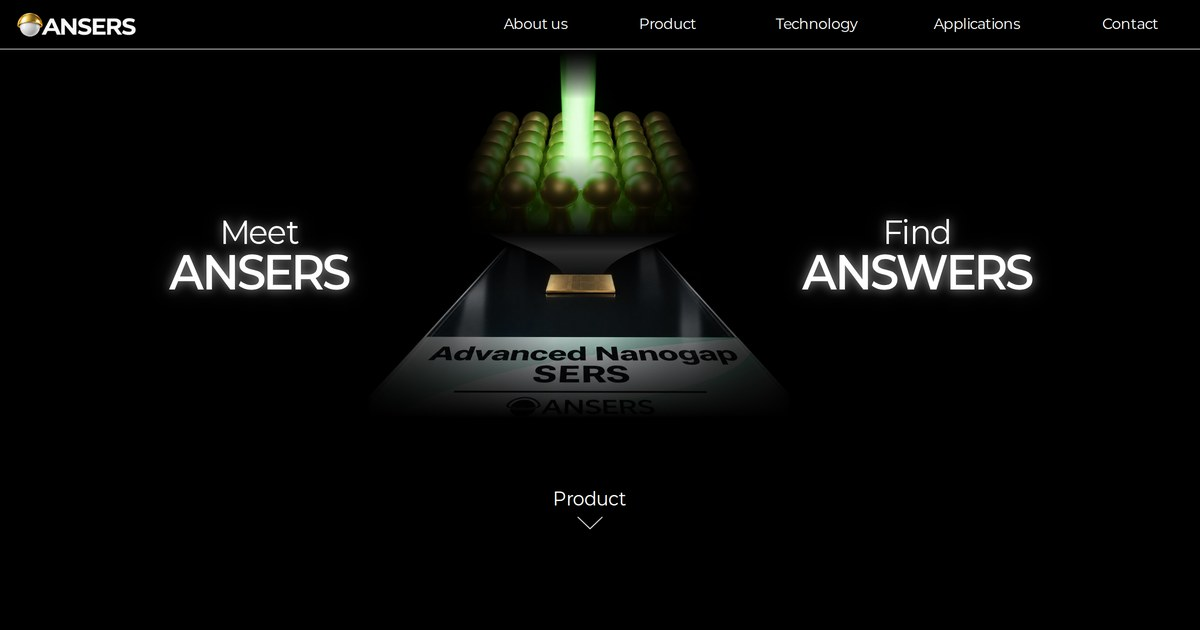
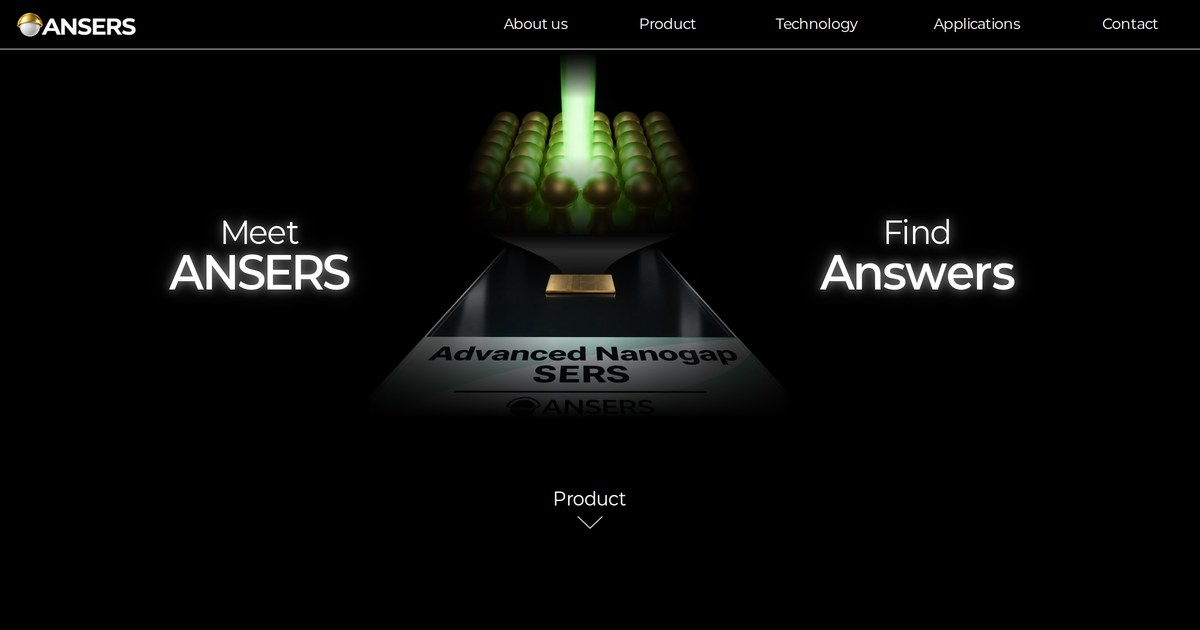
Add files via upload

Changed region(s): [[0.6475, 0.3921, 0.8633, 0.4825]]

diff --git a/m/about.html b/m/about.html
@@ -7,11 +7,11 @@
 <script>(function(){if(!/^https?:$/.test(location.protocol))return;var p=location.pathname,n=p.replace(/index\.html$/,"").replace(/\.html$/,"");if(n!==p)history.replaceState(history.state,"",n+location.search+location.hash)})()</script>
 <meta name="theme-color" content="#000000">
 <title>About us | ANSERS</title>
-<meta name="description" content="ANSERS - Advanced Nanogap SERS. Meet ANSERS, Find ANSWERS.">
+<meta name="description" content="ANSERS - Advanced Nanogap SERS. Meet ANSERS, Find Answers.">
 <meta property="og:type" content="website">
 <meta property="og:site_name" content="ANSERS">
 <meta property="og:title" content="About us | ANSERS">
-<meta property="og:description" content="ANSERS - Advanced Nanogap SERS. Meet ANSERS, Find ANSWERS.">
+<meta property="og:description" content="ANSERS - Advanced Nanogap SERS. Meet ANSERS, Find Answers.">
 <meta property="og:url" content="https://ansers.kr/about">
 <meta property="og:image" content="https://ansers.kr/assets/img/og-image.jpg">
 <meta property="og:image:width" content="1200">
@@ -58,7 +58,7 @@
   <svg data-k="14-6" class="rv el" viewBox="-6.00 -6.00 362.00 197.78" preserveAspectRatio="none" style="left:3.590cqw;top:99.138cqw;width:92.821cqw;height:50.714cqw;overflow:visible;"><rect width="350.00" height="185.78" fill="rgb(255,255,255)" stroke="none"/></svg>
   <img data-k="14-7" class="rv zoom el pic" src="assets/img/logo-color-v3.png" alt="logo-color-v3.png" style="left:27.256cqw;top:100.676cqw;width:43.329cqw;height:11.617cqw;">
   <div data-k="14-8" class="rv el tx" style="left:6.304cqw;top:116.285cqw;width:87.387cqw;height:29.746cqw;padding:0.000cqw 0.000cqw 0.000cqw 0.000cqw;display:flex;flex-direction:column;justify-content:flex-start;white-space:pre-wrap;"><p style="text-align:center;line-height:4.154cqw;position:relative;top:-0.108cqw;"><span style="font-family:var(--f-pt);font-weight:600;font-size:3.846cqw;color:rgb(0,0,0);letter-spacing:-0.077cqw;">KAIST 생산 및 계측 연구실에서 창업한 </span></p><p style="text-align:center;line-height:4.154cqw;position:relative;top:-0.108cqw;"><span style="font-family:var(--f-pt);font-weight:600;font-size:3.846cqw;color:rgb(0,0,0);letter-spacing:-0.077cqw;">ANSERS는</span><span style="font-family:var(--f-pt);font-weight:600;font-size:3.846cqw;color:rgb(0,0,0);letter-spacing:-0.077cqw;"> 비전통적 반도체 공정을 통해 </span></p><p style="text-align:center;line-height:4.154cqw;position:relative;top:-0.108cqw;"><span style="font-family:var(--f-pt);font-weight:600;font-size:3.846cqw;color:rgb(0,0,0);letter-spacing:-0.077cqw;">초고감도, 고 재현성 </span><span style="font-family:var(--f-pt);font-weight:600;font-size:3.846cqw;color:rgb(0,0,0);letter-spacing:-0.077cqw;">SERS기판을</span><span style="font-family:var(--f-pt);font-weight:600;font-size:3.846cqw;color:rgb(0,0,0);letter-spacing:-0.077cqw;"> 제조합니다.</span></p><p style="text-align:center;line-height:4.154cqw;position:relative;top:-0.108cqw;">&nbsp;</p><p style="text-align:center;line-height:4.154cqw;position:relative;top:-0.108cqw;"><span style="font-family:var(--f-pt);font-weight:600;font-size:3.846cqw;color:rgb(0,0,0);letter-spacing:-0.077cqw;">칩과 연동되는 </span><span style="font-family:var(--f-pt);font-weight:600;font-size:3.846cqw;color:rgb(0,0,0);letter-spacing:-0.077cqw;">Raman</span><span style="font-family:var(--f-pt);font-weight:600;font-size:3.846cqw;color:rgb(0,0,0);letter-spacing:-0.077cqw;"> </span><span style="font-family:var(--f-pt);font-weight:600;font-size:3.846cqw;color:rgb(0,0,0);letter-spacing:-0.077cqw;">spectroscopy로</span><span style="font-family:var(--f-pt);font-weight:600;font-size:3.846cqw;color:rgb(0,0,0);letter-spacing:-0.077cqw;"> </span></p><p style="text-align:center;line-height:4.154cqw;position:relative;top:-0.108cqw;"><span style="font-family:var(--f-pt);font-weight:600;font-size:3.846cqw;color:rgb(0,0,0);letter-spacing:-0.077cqw;">Total</span><span style="font-family:var(--f-pt);font-weight:600;font-size:3.846cqw;color:rgb(0,0,0);letter-spacing:-0.077cqw;"> </span><span style="font-family:var(--f-pt);font-weight:600;font-size:3.846cqw;color:rgb(0,0,0);letter-spacing:-0.077cqw;">Raman</span><span style="font-family:var(--f-pt);font-weight:600;font-size:3.846cqw;color:rgb(0,0,0);letter-spacing:-0.077cqw;"> </span><span style="font-family:var(--f-pt);font-weight:600;font-size:3.846cqw;color:rgb(0,0,0);letter-spacing:-0.077cqw;">Platform을</span><span style="font-family:var(--f-pt);font-weight:600;font-size:3.846cqw;color:rgb(0,0,0);letter-spacing:-0.077cqw;"> 제공하기 위해 </span></p><p style="text-align:center;line-height:4.154cqw;position:relative;top:-0.108cqw;"><span style="font-family:var(--f-pt);font-weight:600;font-size:3.846cqw;color:rgb(0,0,0);letter-spacing:-0.077cqw;">노력하고 있습니다.</span></p><p style="text-align:center;line-height:4.154cqw;position:relative;top:-0.108cqw;">&nbsp;</p></div>
-  <div data-k="14-17" class="rv fade el tx" style="left:-3.258cqw;top:40.003cqw;width:106.000cqw;height:19.263cqw;padding:0.923cqw 1.846cqw 0.923cqw 1.846cqw;display:flex;flex-direction:column;justify-content:flex-start;white-space:pre-wrap;"><p style="text-align:center;line-height:8.615cqw;"><span style="font-family:var(--f-pl);font-weight:700;font-size:7.179cqw;color:rgb(255,255,255);">“Meet </span><span style="font-family:var(--f-pl);font-weight:700;font-size:7.179cqw;color:rgb(255,255,255);text-shadow:0 0 0.662cqw rgba(255,255,255,0.460), 0 0 1.654cqw rgba(255,255,255,0.276), 0 0 3.308cqw rgba(255,255,255,0.147);">ANSERS</span><span style="font-family:var(--f-pl);font-weight:700;font-size:7.179cqw;color:rgb(255,255,255);">, </span></p><p style="text-align:center;line-height:8.615cqw;"><span style="font-family:var(--f-pl);font-weight:700;font-size:7.179cqw;color:rgb(255,255,255);">Find </span><span style="font-family:var(--f-pl);font-weight:700;font-size:7.179cqw;color:rgb(255,255,255);text-shadow:0 0 0.662cqw rgba(255,255,255,0.460), 0 0 1.654cqw rgba(255,255,255,0.276), 0 0 3.308cqw rgba(255,255,255,0.147);">ANSWERS</span><span style="font-family:var(--f-pl);font-weight:700;font-size:7.179cqw;color:rgb(255,255,255);">”</span></p></div>
+  <div data-k="14-17" class="rv fade el tx" style="left:-3.258cqw;top:40.003cqw;width:106.000cqw;height:19.263cqw;padding:0.923cqw 1.846cqw 0.923cqw 1.846cqw;display:flex;flex-direction:column;justify-content:flex-start;white-space:pre-wrap;"><p style="text-align:center;line-height:8.615cqw;"><span style="font-family:var(--f-pl);font-weight:700;font-size:7.179cqw;color:rgb(255,255,255);">“Meet </span><span style="font-family:var(--f-pl);font-weight:700;font-size:7.179cqw;color:rgb(255,255,255);text-shadow:0 0 0.662cqw rgba(255,255,255,0.460), 0 0 1.654cqw rgba(255,255,255,0.276), 0 0 3.308cqw rgba(255,255,255,0.147);">ANSERS</span><span style="font-family:var(--f-pl);font-weight:700;font-size:7.179cqw;color:rgb(255,255,255);">, </span></p><p style="text-align:center;line-height:8.615cqw;"><span style="font-family:var(--f-pl);font-weight:700;font-size:7.179cqw;color:rgb(255,255,255);">Find </span><span style="font-family:var(--f-pl);font-weight:700;font-size:7.179cqw;color:rgb(255,255,255);text-shadow:0 0 0.662cqw rgba(255,255,255,0.460), 0 0 1.654cqw rgba(255,255,255,0.276), 0 0 3.308cqw rgba(255,255,255,0.147);">Answers</span><span style="font-family:var(--f-pl);font-weight:700;font-size:7.179cqw;color:rgb(255,255,255);">”</span></p></div>
   <svg data-k="14-19" class="rv el" viewBox="-7.50 -7.50 227.01 15.00" preserveAspectRatio="none" style="left:20.894cqw;top:111.147cqw;width:58.209cqw;height:3.846cqw;overflow:visible;"><line x1="0.00" y1="0.00" x2="212.01" y2="0.00" stroke="rgb(128,128,128)" stroke-width="1.50" stroke-linecap="butt"/></svg>
 </div></section>
 <section class="slide" id="s15" style="height:80.076cqw"><div class="lay" style="top:-14.359cqw">

diff --git a/m/product.html b/m/product.html
@@ -7,11 +7,11 @@
 <script>(function(){if(!/^https?:$/.test(location.protocol))return;var p=location.pathname,n=p.replace(/index\.html$/,"").replace(/\.html$/,"");if(n!==p)history.replaceState(history.state,"",n+location.search+location.hash)})()</script>
 <meta name="theme-color" content="#000000">
 <title>Product | ANSERS</title>
-<meta name="description" content="ANSERS - Advanced Nanogap SERS. Meet ANSERS, Find ANSWERS.">
+<meta name="description" content="ANSERS - Advanced Nanogap SERS. Meet ANSERS, Find Answers.">
 <meta property="og:type" content="website">
 <meta property="og:site_name" content="ANSERS">
 <meta property="og:title" content="Product | ANSERS">
-<meta property="og:description" content="ANSERS - Advanced Nanogap SERS. Meet ANSERS, Find ANSWERS.">
+<meta property="og:description" content="ANSERS - Advanced Nanogap SERS. Meet ANSERS, Find Answers.">
 <meta property="og:url" content="https://ansers.kr/product">
 <meta property="og:image" content="https://ansers.kr/assets/img/og-image.jpg">
 <meta property="og:image:width" content="1200">
@@ -111,7 +111,7 @@
   <div data-k="8-6" class="rv el tx" style="left:36.666cqw;top:125.460cqw;width:27.179cqw;height:4.923cqw;padding:0.000cqw 0.000cqw 0.000cqw 0.000cqw;display:flex;flex-direction:column;justify-content:flex-start;white-space:pre-wrap;"><p style="text-align:center;line-height:4.923cqw;"><span style="font-family:var(--f-pt);font-weight:600;font-size:4.103cqw;color:rgb(255,255,255);">제품 사용 문의</span></p></div>
   <div data-k="8-7" class="rv el tx" style="left:16.390cqw;top:132.641cqw;width:67.220cqw;height:14.359cqw;padding:0.000cqw 0.000cqw 0.000cqw 0.000cqw;display:flex;flex-direction:column;justify-content:flex-start;white-space:pre-wrap;"><p style="text-align:center;line-height:4.431cqw;position:relative;top:-0.115cqw;"><span style="font-family:var(--f-pt);font-weight:600;font-size:4.103cqw;color:rgb(255,255,255);">TEL: +82-42-350-3212</span><br><span style="font-family:var(--f-pt);font-weight:600;font-size:4.103cqw;color:rgb(255,255,255);">Email</span><span style="font-family:var(--f-pt);font-weight:600;font-size:4.103cqw;color:rgb(255,255,255);">: jungchullee@kaist.ac.kr</span></p></div>
   <img data-k="8-8" class="rv zoom el pic" src="assets/img/logo-white-v3.png" alt="logo-white-v3.png" style="left:34.103cqw;top:154.565cqw;width:30.256cqw;height:8.113cqw;">
-  <div data-k="8-16" class="rv fade el tx" style="left:12.489cqw;top:21.130cqw;width:74.509cqw;height:21.749cqw;padding:0.923cqw 1.846cqw 0.923cqw 1.846cqw;display:flex;flex-direction:column;justify-content:flex-start;white-space:pre-wrap;"><p style="text-align:center;line-height:9.846cqw;"><span style="font-family:var(--f-pl);font-weight:600;font-size:7.179cqw;color:rgb(255,255,255);text-shadow:0.544cqw 0.544cqw 1.058cqw rgba(0,0,0,0.216), 0.544cqw 0.544cqw 2.115cqw rgba(0,0,0,0.194), 0.544cqw 0.544cqw 3.596cqw rgba(0,0,0,0.173);">Meet </span><span style="font-family:var(--f-pl);font-weight:700;font-size:8.205cqw;color:rgb(255,255,255);text-shadow:0 0 0.662cqw rgba(255,255,255,0.460), 0 0 1.654cqw rgba(255,255,255,0.276), 0 0 3.308cqw rgba(255,255,255,0.147);">ANSERS,</span><span style="font-family:var(--f-pl);font-weight:600;font-size:7.179cqw;color:rgb(255,255,255);text-shadow:0.544cqw 0.544cqw 1.058cqw rgba(0,0,0,0.216), 0.544cqw 0.544cqw 2.115cqw rgba(0,0,0,0.194), 0.544cqw 0.544cqw 3.596cqw rgba(0,0,0,0.173);">  Find </span><span style="font-family:var(--f-pl);font-weight:700;font-size:8.205cqw;color:rgb(255,255,255);text-shadow:0 0 0.662cqw rgba(255,255,255,0.460), 0 0 1.654cqw rgba(255,255,255,0.276), 0 0 3.308cqw rgba(255,255,255,0.147);">ANSWERS</span></p></div>
+  <div data-k="8-16" class="rv fade el tx" style="left:12.489cqw;top:21.130cqw;width:74.509cqw;height:21.749cqw;padding:0.923cqw 1.846cqw 0.923cqw 1.846cqw;display:flex;flex-direction:column;justify-content:flex-start;white-space:pre-wrap;"><p style="text-align:center;line-height:9.846cqw;"><span style="font-family:var(--f-pl);font-weight:600;font-size:7.179cqw;color:rgb(255,255,255);text-shadow:0.544cqw 0.544cqw 1.058cqw rgba(0,0,0,0.216), 0.544cqw 0.544cqw 2.115cqw rgba(0,0,0,0.194), 0.544cqw 0.544cqw 3.596cqw rgba(0,0,0,0.173);">Meet </span><span style="font-family:var(--f-pl);font-weight:700;font-size:8.205cqw;color:rgb(255,255,255);text-shadow:0 0 0.662cqw rgba(255,255,255,0.460), 0 0 1.654cqw rgba(255,255,255,0.276), 0 0 3.308cqw rgba(255,255,255,0.147);">ANSERS,</span><span style="font-family:var(--f-pl);font-weight:600;font-size:7.179cqw;color:rgb(255,255,255);text-shadow:0.544cqw 0.544cqw 1.058cqw rgba(0,0,0,0.216), 0.544cqw 0.544cqw 2.115cqw rgba(0,0,0,0.194), 0.544cqw 0.544cqw 3.596cqw rgba(0,0,0,0.173);">  Find </span><span style="font-family:var(--f-pl);font-weight:700;font-size:8.205cqw;color:rgb(255,255,255);text-shadow:0 0 0.662cqw rgba(255,255,255,0.460), 0 0 1.654cqw rgba(255,255,255,0.276), 0 0 3.308cqw rgba(255,255,255,0.147);">Answers</span></p></div>
   <div data-k="8-4" class="rv el tx" style="left:14.569cqw;top:45.750cqw;width:70.862cqw;height:13.115cqw;padding:0.000cqw 0.000cqw 0.000cqw 0.000cqw;display:flex;flex-direction:column;justify-content:flex-start;white-space:pre-wrap;"><p style="text-align:center;line-height:4.292cqw;position:relative;top:-0.111cqw;"><span style="font-family:var(--f-pt);font-weight:600;font-size:3.974cqw;color:rgb(255,255,255);letter-spacing:-0.051cqw;">답을 찾아가는 여정에</span><br><span style="font-family:var(--f-pt);font-weight:600;font-size:3.974cqw;color:rgb(255,255,255);letter-spacing:-0.051cqw;">ANSERS가</span><span style="font-family:var(--f-pt);font-weight:600;font-size:3.974cqw;color:rgb(255,255,255);letter-spacing:-0.051cqw;"> 최고의 동반자가 되겠습니다.</span></p></div>
   <a class="hit" href="tel:+82423503212" aria-label="전화" style="left:17.779cqw;top:132.129cqw;width:64.441cqw;height:8.205cqw"></a>
   <a class="hit" href="mailto:jungchullee@kaist.ac.kr" aria-label="이메일" style="left:17.779cqw;top:139.308cqw;width:64.441cqw;height:8.205cqw"></a>

diff --git a/m/index.html b/m/index.html
@@ -6,12 +6,12 @@
 <script>(function(){var q=matchMedia("(min-width: 768px)");function go(){if(!q.matches)return;var f=location.pathname.split("/").pop()||"index.html";location.replace("../"+f+location.search+location.hash)}go();q.addEventListener&&q.addEventListener("change",go)})()</script>
 <script>(function(){if(!/^https?:$/.test(location.protocol))return;var p=location.pathname,n=p.replace(/index\.html$/,"").replace(/\.html$/,"");if(n!==p)history.replaceState(history.state,"",n+location.search+location.hash)})()</script>
 <meta name="theme-color" content="#000000">
-<title>ANSERS | Meet ANSERS, Find ANSWERS</title>
-<meta name="description" content="ANSERS - Advanced Nanogap SERS. Meet ANSERS, Find ANSWERS.">
+<title>ANSERS | Meet ANSERS, Find Answers</title>
+<meta name="description" content="ANSERS - Advanced Nanogap SERS. Meet ANSERS, Find Answers.">
 <meta property="og:type" content="website">
 <meta property="og:site_name" content="ANSERS">
-<meta property="og:title" content="ANSERS | Meet ANSERS, Find ANSWERS">
-<meta property="og:description" content="ANSERS - Advanced Nanogap SERS. Meet ANSERS, Find ANSWERS.">
+<meta property="og:title" content="ANSERS | Meet ANSERS, Find Answers">
+<meta property="og:description" content="ANSERS - Advanced Nanogap SERS. Meet ANSERS, Find Answers.">
 <meta property="og:url" content="https://ansers.kr/">
 <meta property="og:image" content="https://ansers.kr/assets/img/og-image.jpg">
 <meta property="og:image:width" content="1200">
@@ -56,7 +56,7 @@
   <div data-k="1-7" class="rv el tx" style="left:38.974cqw;top:175.467cqw;width:22.051cqw;height:5.641cqw;padding:0.000cqw 0.000cqw 0.000cqw 0.000cqw;display:flex;flex-direction:column;justify-content:flex-start;white-space:pre-wrap;"><p style="text-align:center;line-height:5.538cqw;position:relative;top:0.217cqw;"><span style="font-family:var(--f-pt);font-weight:200;font-size:4.103cqw;color:rgb(255,255,255);">Product</span></p></div>
   <svg data-k="1-8" class="rv el" viewBox="-7.30 -7.30 43.30 28.30" preserveAspectRatio="none" style="left:44.448cqw;top:179.964cqw;width:11.104cqw;height:7.258cqw;overflow:visible;"><path d="M0.00,0.00 L14.35,13.70 L28.70,0.00 " fill="none" stroke="rgb(255,255,255)" stroke-width="1.30" stroke-linejoin="miter"/></svg>
   <div data-k="1-16" class="rv fade el tx" style="left:2.066cqw;top:32.150cqw;width:96.380cqw;height:20.506cqw;padding:0.923cqw 1.846cqw 0.923cqw 1.846cqw;display:flex;flex-direction:column;justify-content:flex-start;white-space:pre-wrap;"><p style="text-align:center;line-height:7.385cqw;"><span style="font-family:var(--f-pl);font-weight:500;font-size:6.154cqw;color:rgb(255,255,255);">Meet  </span></p><p style="text-align:center;line-height:11.077cqw;"><span style="font-family:var(--f-pl);font-weight:700;font-size:9.231cqw;color:rgb(255,255,255);text-shadow:0 0 0.662cqw rgba(255,255,255,0.460), 0 0 1.654cqw rgba(255,255,255,0.276), 0 0 3.308cqw rgba(255,255,255,0.147);">ANSERS</span></p></div>
-  <div data-k="1-17" class="rv fade el tx" style="left:-3.079cqw;top:136.407cqw;width:106.569cqw;height:20.506cqw;padding:0.923cqw 1.846cqw 0.923cqw 1.846cqw;display:flex;flex-direction:column;justify-content:flex-start;white-space:pre-wrap;"><p style="text-align:center;line-height:7.385cqw;"><span style="font-family:var(--f-pl);font-weight:500;font-size:6.154cqw;color:rgb(255,255,255);">Find  </span></p><p style="text-align:center;line-height:11.077cqw;"><span style="font-family:var(--f-pl);font-weight:700;font-size:9.231cqw;color:rgb(255,255,255);text-shadow:0 0 0.662cqw rgba(255,255,255,0.460), 0 0 1.654cqw rgba(255,255,255,0.276), 0 0 3.308cqw rgba(255,255,255,0.147);">ANSWERS</span></p></div>
+  <div data-k="1-17" class="rv fade el tx" style="left:-3.079cqw;top:136.407cqw;width:106.569cqw;height:20.506cqw;padding:0.923cqw 1.846cqw 0.923cqw 1.846cqw;display:flex;flex-direction:column;justify-content:flex-start;white-space:pre-wrap;"><p style="text-align:center;line-height:7.385cqw;"><span style="font-family:var(--f-pl);font-weight:500;font-size:6.154cqw;color:rgb(255,255,255);">Find  </span></p><p style="text-align:center;line-height:11.077cqw;"><span style="font-family:var(--f-pl);font-weight:700;font-size:9.231cqw;color:rgb(255,255,255);text-shadow:0 0 0.662cqw rgba(255,255,255,0.460), 0 0 1.654cqw rgba(255,255,255,0.276), 0 0 3.308cqw rgba(255,255,255,0.147);">Answers</span></p></div>
   <a class="hit" href="product.html" aria-label="Product" style="left:38.205cqw;top:173.929cqw;width:23.590cqw;height:12.958cqw"></a>
 </div></section>
 </main>

diff --git a/product.html b/product.html
@@ -6,11 +6,11 @@
 <script>(function(){var q=matchMedia("(max-width: 767px)");function go(){if(!q.matches)return;var f=location.pathname.split("/").pop()||"index.html";location.replace("m/"+f+location.search+location.hash)}go();q.addEventListener&&q.addEventListener("change",go)})()</script>
 <script>(function(){if(!/^https?:$/.test(location.protocol))return;var p=location.pathname,n=p.replace(/index\.html$/,"").replace(/\.html$/,"");if(n!==p)history.replaceState(history.state,"",n+location.search+location.hash)})()</script>
 <title>Product | ANSERS</title>
-<meta name="description" content="ANSERS - Advanced Nanogap SERS. Meet ANSERS, Find ANSWERS.">
+<meta name="description" content="ANSERS - Advanced Nanogap SERS. Meet ANSERS, Find Answers.">
 <meta property="og:type" content="website">
 <meta property="og:site_name" content="ANSERS">
 <meta property="og:title" content="Product | ANSERS">
-<meta property="og:description" content="ANSERS - Advanced Nanogap SERS. Meet ANSERS, Find ANSWERS.">
+<meta property="og:description" content="ANSERS - Advanced Nanogap SERS. Meet ANSERS, Find Answers.">
 <meta property="og:url" content="https://ansers.kr/product">
 <meta property="og:image" content="https://ansers.kr/assets/img/og-image.jpg">
 <meta property="og:image:width" content="1200">
@@ -80,7 +80,7 @@
 <section class="sec reveal" id="p6" style="height:1041px">
   <div style="left:952px;top:212px;width:2px;height:80px;background:linear-gradient(rgba(80,255,120,0),#5dff7d);box-shadow:0 0 8px #3fdc5f"></div>
   <img src="assets/img/rings.jpg" alt="" style="left:283px;top:155px;width:1345px">
-  <h2 class="en w6 c glow" style="left:955px;top:140px;font-size:60px;letter-spacing:-1px">Meet <span style="font-size:68px">ANSERS</span>, Find <span style="font-size:68px">ANSWERS</span></h2>
+  <h2 class="en w6 c glow" style="left:955px;top:140px;font-size:60px;letter-spacing:-1px">Meet <span style="font-size:68px">ANSERS</span>, Find <span style="font-size:68px">Answers</span></h2>
   <p class="w6 c" style="left:957px;top:238px;font-size:31px">답을 찾아가는 여정에 ANSERS가 최고의 동반자가 되겠습니다.</p>
   <h3 data-grp="contact" class="w6 c" style="left:958px;top:674px;font-size:31px">제품 사용 문의</h3>
   <p data-grp="contact" class="w6 c" style="left:960px;top:730px;font-size:33px;line-height:39px"><a href="tel:+82423503212">TEL: +82-42-350-3212</a><br><a href="mailto:jungchullee@kaist.ac.kr">Email: jungchullee@kaist.ac.kr</a></p>

diff --git a/index.html b/index.html
@@ -5,12 +5,12 @@
 <meta name="viewport" content="width=device-width, initial-scale=1">
 <script>(function(){var q=matchMedia("(max-width: 767px)");function go(){if(!q.matches)return;var f=location.pathname.split("/").pop()||"index.html";location.replace("m/"+f+location.search+location.hash)}go();q.addEventListener&&q.addEventListener("change",go)})()</script>
 <script>(function(){if(!/^https?:$/.test(location.protocol))return;var p=location.pathname,n=p.replace(/index\.html$/,"").replace(/\.html$/,"");if(n!==p)history.replaceState(history.state,"",n+location.search+location.hash)})()</script>
-<title>ANSERS | Meet ANSERS, Find ANSWERS</title>
-<meta name="description" content="ANSERS - Advanced Nanogap SERS. Meet ANSERS, Find ANSWERS.">
+<title>ANSERS | Meet ANSERS, Find Answers</title>
+<meta name="description" content="ANSERS - Advanced Nanogap SERS. Meet ANSERS, Find Answers.">
 <meta property="og:type" content="website">
 <meta property="og:site_name" content="ANSERS">
-<meta property="og:title" content="ANSERS | Meet ANSERS, Find ANSWERS">
-<meta property="og:description" content="ANSERS - Advanced Nanogap SERS. Meet ANSERS, Find ANSWERS.">
+<meta property="og:title" content="ANSERS | Meet ANSERS, Find Answers">
+<meta property="og:description" content="ANSERS - Advanced Nanogap SERS. Meet ANSERS, Find Answers.">
 <meta property="og:url" content="https://ansers.kr/">
 <meta property="og:image" content="https://ansers.kr/assets/img/og-image.jpg">
 <meta property="og:image:width" content="1200">
@@ -33,7 +33,7 @@
 <section class="sec reveal">
   <img class="hero-img" data-a="hero" src="assets/img/hero-chip.jpg" alt="ANSERS Advanced Nanogap SERS 칩" style="left:544px;top:83px;width:756px">
   <h1 class="hero-word c" data-a="left" style="left:355px;top:385px"><span class="sm">Meet</span><span class="lg">ANSERS</span></h1>
-  <p class="hero-word c" data-a="right" style="left:1525px;top:385px"><span class="sm">Find</span><span class="lg">ANSWERS</span></p>
+  <p class="hero-word c" data-a="right" style="left:1525px;top:385px"><span class="sm">Find</span><span class="lg">Answers</span></p>
   <a class="more c" href="product.html" style="left:942px;top:868px">Product<svg viewBox="0 0 46 24" aria-hidden="true"><polyline points="1,1 23,22 45,1" fill="none" stroke="#fff" stroke-width="1.6"/></svg></a>
 </section>
 </main>

diff --git a/about.html b/about.html
@@ -6,11 +6,11 @@
 <script>(function(){var q=matchMedia("(max-width: 767px)");function go(){if(!q.matches)return;var f=location.pathname.split("/").pop()||"index.html";location.replace("m/"+f+location.search+location.hash)}go();q.addEventListener&&q.addEventListener("change",go)})()</script>
 <script>(function(){if(!/^https?:$/.test(location.protocol))return;var p=location.pathname,n=p.replace(/index\.html$/,"").replace(/\.html$/,"");if(n!==p)history.replaceState(history.state,"",n+location.search+location.hash)})()</script>
 <title>About us | ANSERS</title>
-<meta name="description" content="ANSERS - Advanced Nanogap SERS. Meet ANSERS, Find ANSWERS.">
+<meta name="description" content="ANSERS - Advanced Nanogap SERS. Meet ANSERS, Find Answers.">
 <meta property="og:type" content="website">
 <meta property="og:site_name" content="ANSERS">
 <meta property="og:title" content="About us | ANSERS">
-<meta property="og:description" content="ANSERS - Advanced Nanogap SERS. Meet ANSERS, Find ANSWERS.">
+<meta property="og:description" content="ANSERS - Advanced Nanogap SERS. Meet ANSERS, Find Answers.">
 <meta property="og:url" content="https://ansers.kr/about">
 <meta property="og:image" content="https://ansers.kr/assets/img/og-image.jpg">
 <meta property="og:image:width" content="1200">
@@ -33,7 +33,7 @@
 <section class="sec reveal" id="b1" style="height:1088px">
   <h2 class="label c" style="left:942px;top:134px">About us</h2>
   <img src="assets/img/about-slide.jpg" alt="" style="left:563px;top:236px;width:748px">
-  <h1 class="en w6 c glow" style="left:975px;top:214px;font-size:64px;letter-spacing:-1px">“Meet ANSERS, Find ANSWERS”</h1>
+  <h1 class="en w6 c glow" style="left:975px;top:214px;font-size:64px;letter-spacing:-1px">“Meet ANSERS, Find Answers”</h1>
   <div class="about-box" style="left:206px;top:617px"></div>
   <img src="assets/img/logo-color-v3.png" alt="ANSERS 로고" style="left:287px;top:709px;width:575px">
   <div style="left:942px;top:667px;width:3px;height:221px;background:#000"></div>

diff --git a/applications.html b/applications.html
@@ -6,11 +6,11 @@
 <script>(function(){var q=matchMedia("(max-width: 767px)");function go(){if(!q.matches)return;var f=location.pathname.split("/").pop()||"index.html";location.replace("m/"+f+location.search+location.hash)}go();q.addEventListener&&q.addEventListener("change",go)})()</script>
 <script>(function(){if(!/^https?:$/.test(location.protocol))return;var p=location.pathname,n=p.replace(/index\.html$/,"").replace(/\.html$/,"");if(n!==p)history.replaceState(history.state,"",n+location.search+location.hash)})()</script>
 <title>Applications | ANSERS</title>
-<meta name="description" content="ANSERS - Advanced Nanogap SERS. Meet ANSERS, Find ANSWERS.">
+<meta name="description" content="ANSERS - Advanced Nanogap SERS. Meet ANSERS, Find Answers.">
 <meta property="og:type" content="website">
 <meta property="og:site_name" content="ANSERS">
 <meta property="og:title" content="Applications | ANSERS">
-<meta property="og:description" content="ANSERS - Advanced Nanogap SERS. Meet ANSERS, Find ANSWERS.">
+<meta property="og:description" content="ANSERS - Advanced Nanogap SERS. Meet ANSERS, Find Answers.">
 <meta property="og:url" content="https://ansers.kr/applications">
 <meta property="og:image" content="https://ansers.kr/assets/img/og-image.jpg">
 <meta property="og:image:width" content="1200">

diff --git a/technology.html b/technology.html
@@ -6,11 +6,11 @@
 <script>(function(){var q=matchMedia("(max-width: 767px)");function go(){if(!q.matches)return;var f=location.pathname.split("/").pop()||"index.html";location.replace("m/"+f+location.search+location.hash)}go();q.addEventListener&&q.addEventListener("change",go)})()</script>
 <script>(function(){if(!/^https?:$/.test(location.protocol))return;var p=location.pathname,n=p.replace(/index\.html$/,"").replace(/\.html$/,"");if(n!==p)history.replaceState(history.state,"",n+location.search+location.hash)})()</script>
 <title>Technology | ANSERS</title>
-<meta name="description" content="ANSERS - Advanced Nanogap SERS. Meet ANSERS, Find ANSWERS.">
+<meta name="description" content="ANSERS - Advanced Nanogap SERS. Meet ANSERS, Find Answers.">
 <meta property="og:type" content="website">
 <meta property="og:site_name" content="ANSERS">
 <meta property="og:title" content="Technology | ANSERS">
-<meta property="og:description" content="ANSERS - Advanced Nanogap SERS. Meet ANSERS, Find ANSWERS.">
+<meta property="og:description" content="ANSERS - Advanced Nanogap SERS. Meet ANSERS, Find Answers.">
 <meta property="og:url" content="https://ansers.kr/technology">
 <meta property="og:image" content="https://ansers.kr/assets/img/og-image.jpg">
 <meta property="og:image:width" content="1200">

diff --git a/m/applications.html b/m/applications.html
@@ -7,11 +7,11 @@
 <script>(function(){if(!/^https?:$/.test(location.protocol))return;var p=location.pathname,n=p.replace(/index\.html$/,"").replace(/\.html$/,"");if(n!==p)history.replaceState(history.state,"",n+location.search+location.hash)})()</script>
 <meta name="theme-color" content="#000000">
 <title>Applications | ANSERS</title>
-<meta name="description" content="ANSERS - Advanced Nanogap SERS. Meet ANSERS, Find ANSWERS.">
+<meta name="description" content="ANSERS - Advanced Nanogap SERS. Meet ANSERS, Find Answers.">
 <meta property="og:type" content="website">
 <meta property="og:site_name" content="ANSERS">
 <meta property="og:title" content="Applications | ANSERS">
-<meta property="og:description" content="ANSERS - Advanced Nanogap SERS. Meet ANSERS, Find ANSWERS.">
+<meta property="og:description" content="ANSERS - Advanced Nanogap SERS. Meet ANSERS, Find Answers.">
 <meta property="og:url" content="https://ansers.kr/applications">
 <meta property="og:image" content="https://ansers.kr/assets/img/og-image.jpg">
 <meta property="og:image:width" content="1200">

diff --git a/m/technology.html b/m/technology.html
@@ -7,11 +7,11 @@
 <script>(function(){if(!/^https?:$/.test(location.protocol))return;var p=location.pathname,n=p.replace(/index\.html$/,"").replace(/\.html$/,"");if(n!==p)history.replaceState(history.state,"",n+location.search+location.hash)})()</script>
 <meta name="theme-color" content="#000000">
 <title>Technology | ANSERS</title>
-<meta name="description" content="ANSERS - Advanced Nanogap SERS. Meet ANSERS, Find ANSWERS.">
+<meta name="description" content="ANSERS - Advanced Nanogap SERS. Meet ANSERS, Find Answers.">
 <meta property="og:type" content="website">
 <meta property="og:site_name" content="ANSERS">
 <meta property="og:title" content="Technology | ANSERS">
-<meta property="og:description" content="ANSERS - Advanced Nanogap SERS. Meet ANSERS, Find ANSWERS.">
+<meta property="og:description" content="ANSERS - Advanced Nanogap SERS. Meet ANSERS, Find Answers.">
 <meta property="og:url" content="https://ansers.kr/technology">
 <meta property="og:image" content="https://ansers.kr/assets/img/og-image.jpg">
 <meta property="og:image:width" content="1200">
